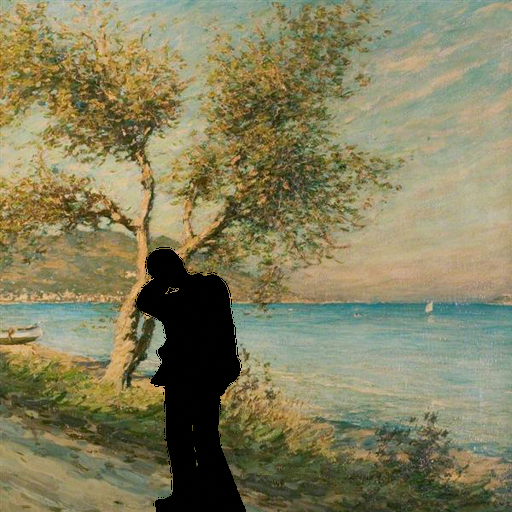
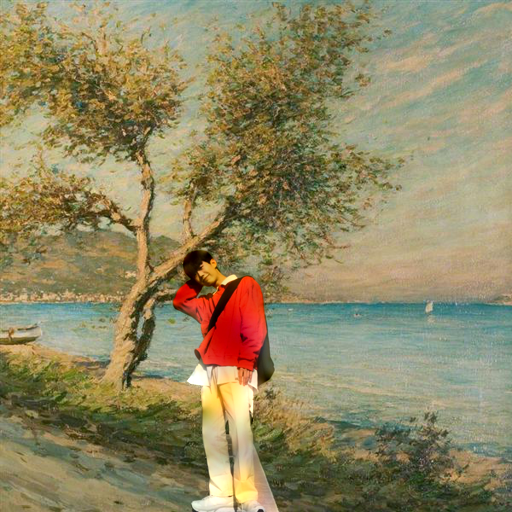
'ImageBlending_Model'

Changed region(s): [[0.25, 0.4688, 0.5625, 1.0]]

diff --git a/DeepImageBlending/run.py b/DeepImageBlending/run.py
@@ -101,17 +101,17 @@ while run[0] <= num_steps:
         grad_loss *= grad_weight
         
         # Compute Style Loss
-        target_features_style = vgg(mean_shift(target_img))
-        target_gram_style = [gram_matrix(y) for y in target_features_style]
-
-        blend_features_style = vgg(mean_shift(input_img))
-        blend_gram_style = [gram_matrix(y) for y in blend_features_style]
-
-        style_loss = 0
-        for layer in range(len(blend_gram_style)):
-            style_loss += mse(blend_gram_style[layer], target_gram_style[layer])
-        style_loss /= len(blend_gram_style)
-        style_loss *= style_weight
+        # target_features_style = vgg(mean_shift(target_img))
+        # target_gram_style = [gram_matrix(y) for y in target_features_style]
+        #
+        # blend_features_style = vgg(mean_shift(input_img))
+        # blend_gram_style = [gram_matrix(y) for y in blend_features_style]
+        #
+        # style_loss = 0
+        # for layer in range(len(blend_gram_style)):
+        #     style_loss += mse(blend_gram_style[layer], target_gram_style[layer])
+        # style_loss /= len(blend_gram_style)
+        # style_loss *= style_weight
 
         
         # Compute Content Loss
@@ -127,7 +127,7 @@ while run[0] <= num_steps:
         tv_loss *= tv_weight
         
         # Compute Total Loss and Update Image
-        loss = grad_loss + style_loss + content_loss + tv_loss
+        loss = grad_loss + content_loss + tv_loss
         optimizer.zero_grad()
         loss.backward()
         
@@ -199,8 +199,8 @@ while run[0] <= 100:
         style_loss = 0
         for layer in range(len(blend_gram_style)):
             style_loss += mse(blend_gram_style[layer], target_gram_style[layer])
-        style_loss /= len(blend_gram_style)  
-        style_loss *= style_weight        
+        style_loss /= len(blend_gram_style)
+        style_loss *= style_weight
         
         # Compute Content Loss
         content_features = vgg(mean_shift(first_pass_img))
@@ -236,4 +236,3 @@ imsave('results/'+str(name)+'_second_pass.png', input_img_np.astype(np.uint8))
 
 end2 = timer()
 print(timedelta(seconds=end2-start2), timedelta(seconds=end2-start))
-
